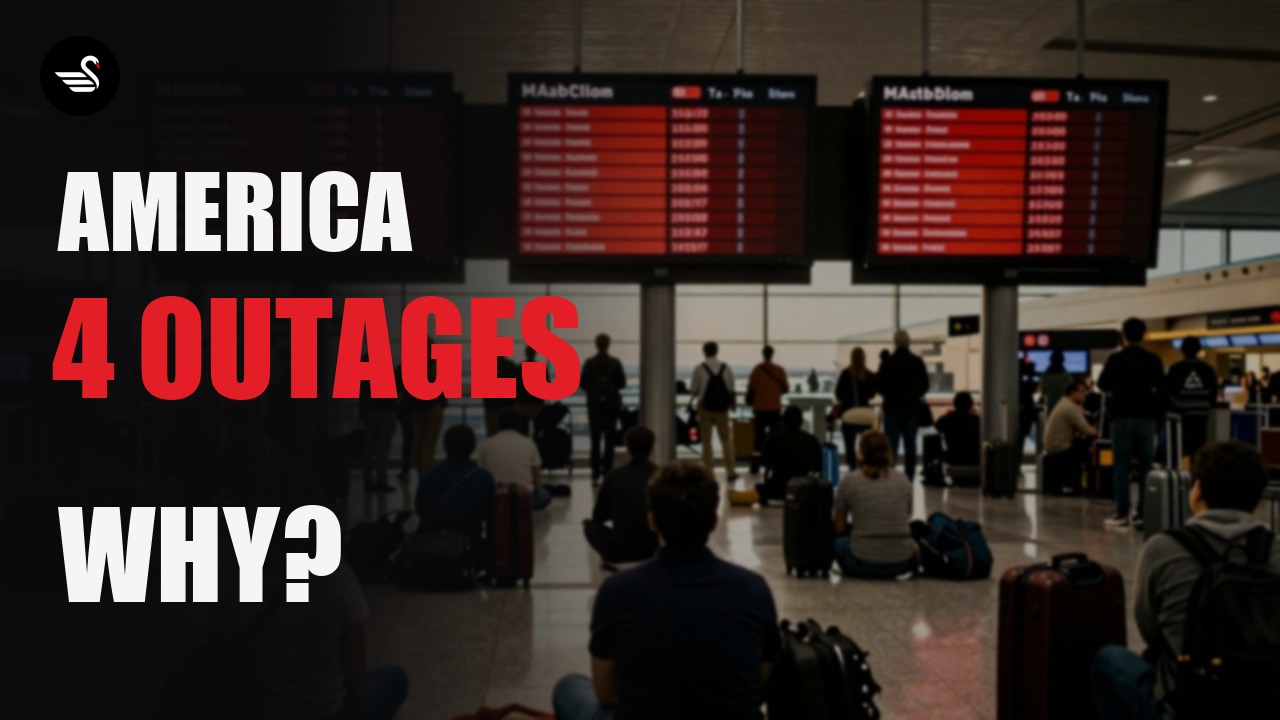
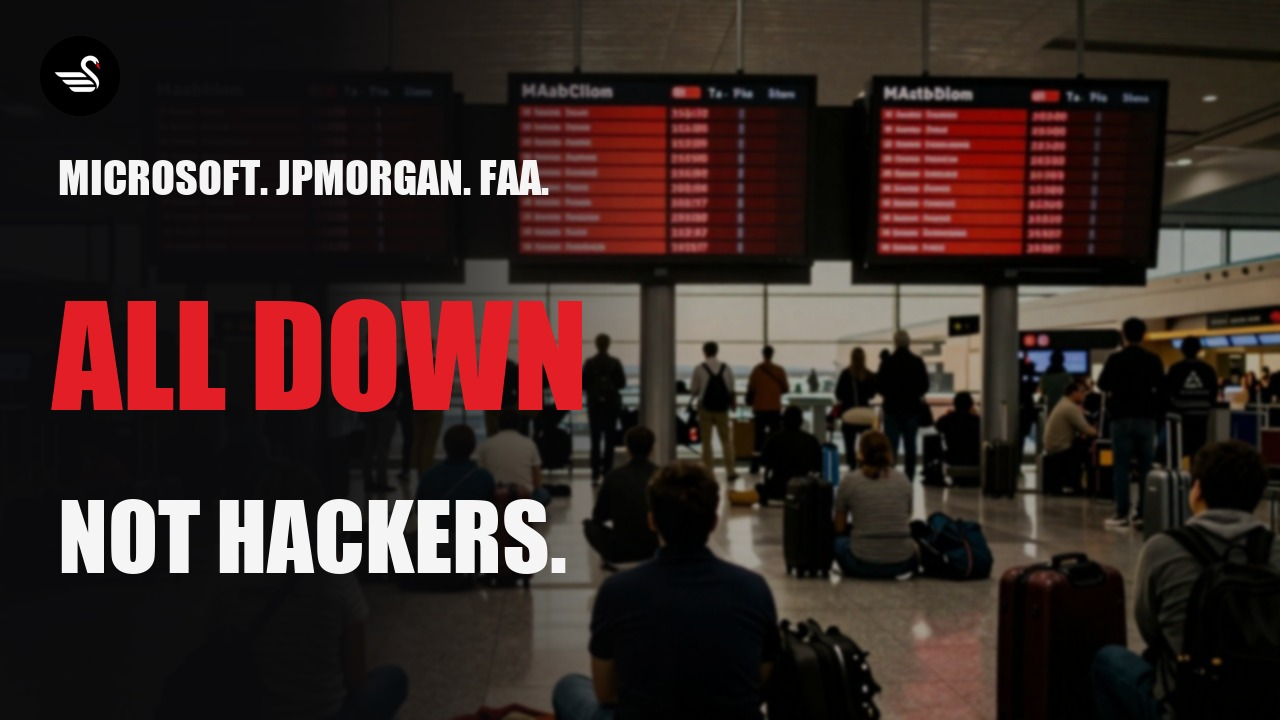
BlackswanVault: storingen-video + Short gepland zo 22 nov 15:00/17:00; thumbnail-prikkel per video anders
Claude-Session: https://claude.ai/code/session_014CuA5TEJcpxSFwGB8toE8c

Changed region(s): [[0.0312, 0.3972, 0.4688, 0.5806], [0.0312, 0.6722, 0.4375, 0.8556], [0.0312, 0.2139, 0.4375, 0.3667]]

diff --git a/kanalen/blackswanvault/README.md b/kanalen/blackswanvault/README.md
@@ -33,7 +33,7 @@ Sleutel: `YT_WHATIF_REFRESH_TOKEN`.
   - **Opsommingen rustig:** elk item een eigen korte zin op een eigen regel in `script.txt`. Die krijgt 0,6 s pauze, en elk item komt apart in beeld.
 - **Beschrijving:** 3 zinnen, hoofdstukken, "Not financial advice." en 3 hashtags. Geen streepjes en geen dubbele punten in kanaalteksten.
 - **Thumbnail:** andere tekst dan de titel. Letters nooit over het onderwerp. Met `thumb.py`: links grote letters, rechts het onderwerp; logo van het bedrijf erbij (`THUMB_MERK=...`). Thumbnail: officiële cover/key art mag (keuze B, eigenaar 19 nov); in de video zelf niet.
-- **Vaste thumbnailstijl (eigenaar 20 nov, markt-video: "zet dit zo vast, dat spreekt mensen aan"):** links zwart verloop met korte regels Impact-letters onder elkaar: onderwerp in wit (bv. NASDAQ), het harde cijfer groot in rood (bv. -13%), en een prikkel in wit (bv. WHY?); logo linksboven (rond). Rechts een beeld met emotie (bv. trader met hoofd in handen) en, bij koersen, de echte koerslijn in rood eroverheen die eindigt met een stip. Het cijfer op de thumbnail is het echte, harde cijfer (mag scherper zijn dan de titel, nooit overdreven). Script: `video4/thumb_markt2.py <beeld> <regel1> <regel2> <uit.jpg> [regel3]`; voorbeeld `video4/thumbnail-definitief.jpg`.
+- **Vaste thumbnailstijl (eigenaar 20 nov, markt-video: "zet dit zo vast, dat spreekt mensen aan"):** links zwart verloop met korte regels Impact-letters onder elkaar: onderwerp in wit (bv. NASDAQ), het harde cijfer groot in rood (bv. -13%), en een prikkel in wit die nieuwsgierig maakt, per video anders (niet steeds WHY?; eigenaar 20 nov: "hoeft niet bij elk why, gewoon iets wat mensen nieuwsgierig maakt"; bv. NOT HACKERS., AI DID THIS?); logo linksboven (rond). Rechts een beeld met emotie (bv. trader met hoofd in handen) en, bij koersen, de echte koerslijn in rood eroverheen die eindigt met een stip. Het cijfer op de thumbnail is het echte, harde cijfer (mag scherper zijn dan de titel, nooit overdreven). Script: `video4/thumb_markt2.py <beeld> <regel1> <regel2> <uit.jpg> [regel3]`; voorbeeld `video4/thumbnail-definitief.jpg`.
 - **YouTube:**
   - Altijd eerst privé uploaden en via de API het kanaal controleren.
   - Openbaar alleen na een expliciete OK van de eigenaar.
